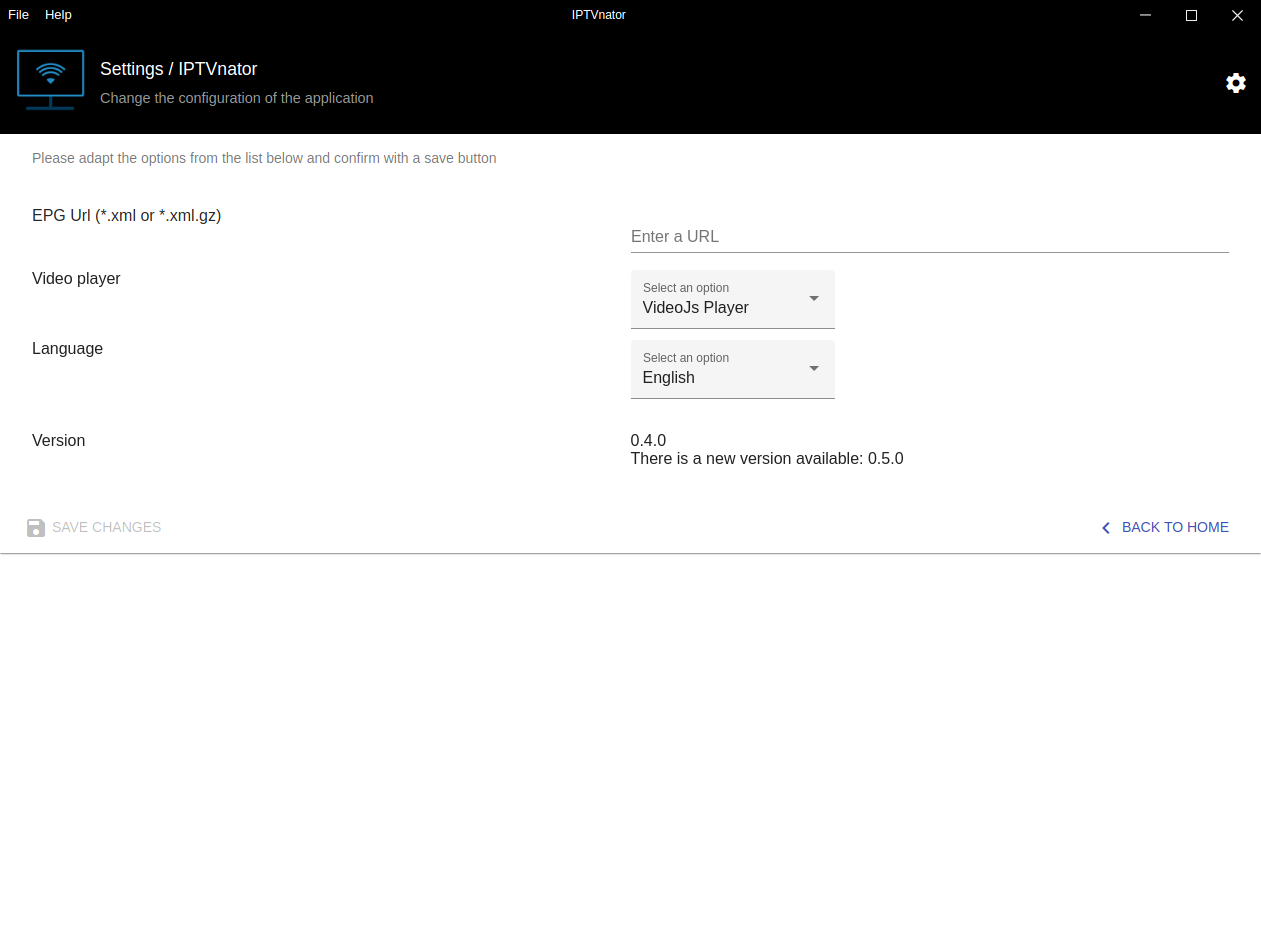
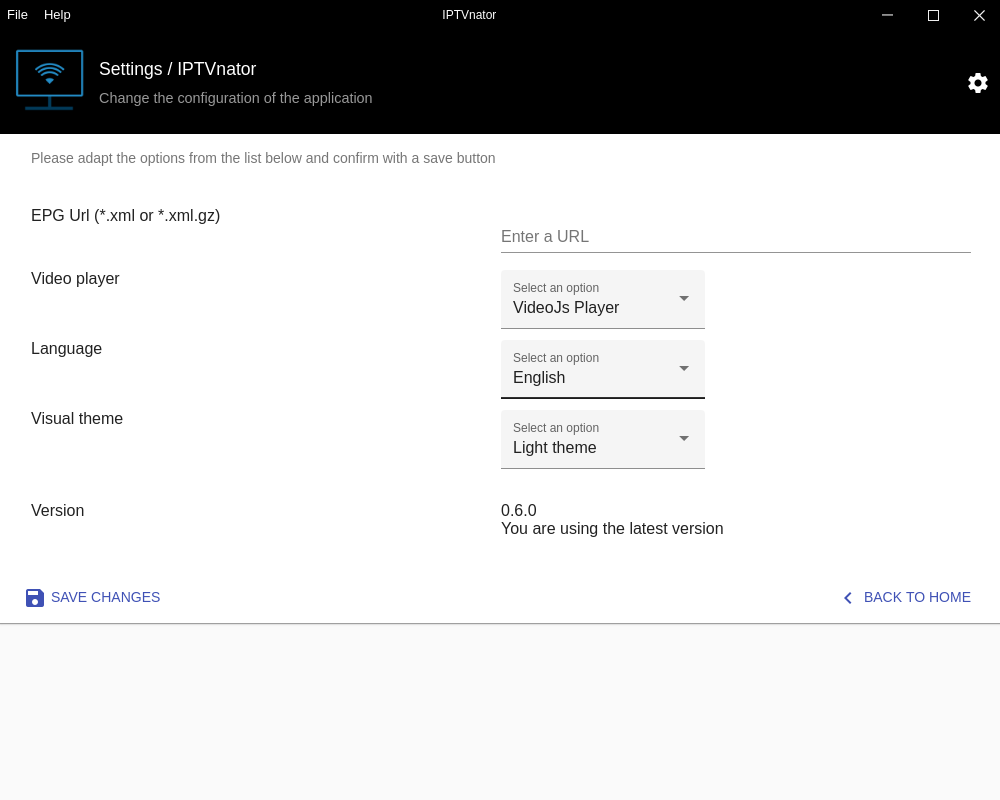
docs: update readme and add more screenshots

diff --git a/README.md b/README.md
@@ -11,13 +11,14 @@
 
 The application is an cross-platform and open source project based on Electron and Angular.
 
-![Welcome screen: Playlists overview](./iptv-epg.png)
+![IPTVnator: Channels list, player and epg list](./iptv-dark-theme.png)
 
 ## Features
 
 - M3u and M3u8 playlists support 📺
 - Upload playlists from a file system 📂
 - Add remote playlists via URL 🔗
+- Playlists auto-update feature
 - Open playlist from the file system
 - Search for channels 🔍
 - EPG support (TV Guide) with detailed info
@@ -36,6 +37,10 @@ The application is an cross-platform and open source project based on Electron a
 | ![Welcome screen: Playlists overview](./playlists.png)       | ![Sidebar with channel and video player](./iptv-main.png) |
 | Welcome screen: Add playlist via file upload                | Welcome screen: Add playlist via URL                      |
 | ![Welcome screen: Add playlist via file upload](./iptv-upload.png) | ![Welcome screen: Add playlist via URL](./upload-via-url.png)             |
+| EPG Sidebar: TV guide on the right side                | General application settings
+| ![EPG: TV guide on the right side](./iptv-epg.png) | ![General app settings](./iptv-settings.png) |
+| Playlist settings                |
+| ![Playlist settings](./iptv-playlist-settings.png) |  |
 
 *Note: First version of the application which was developed as a PWA is available in an extra git branch.*
 
